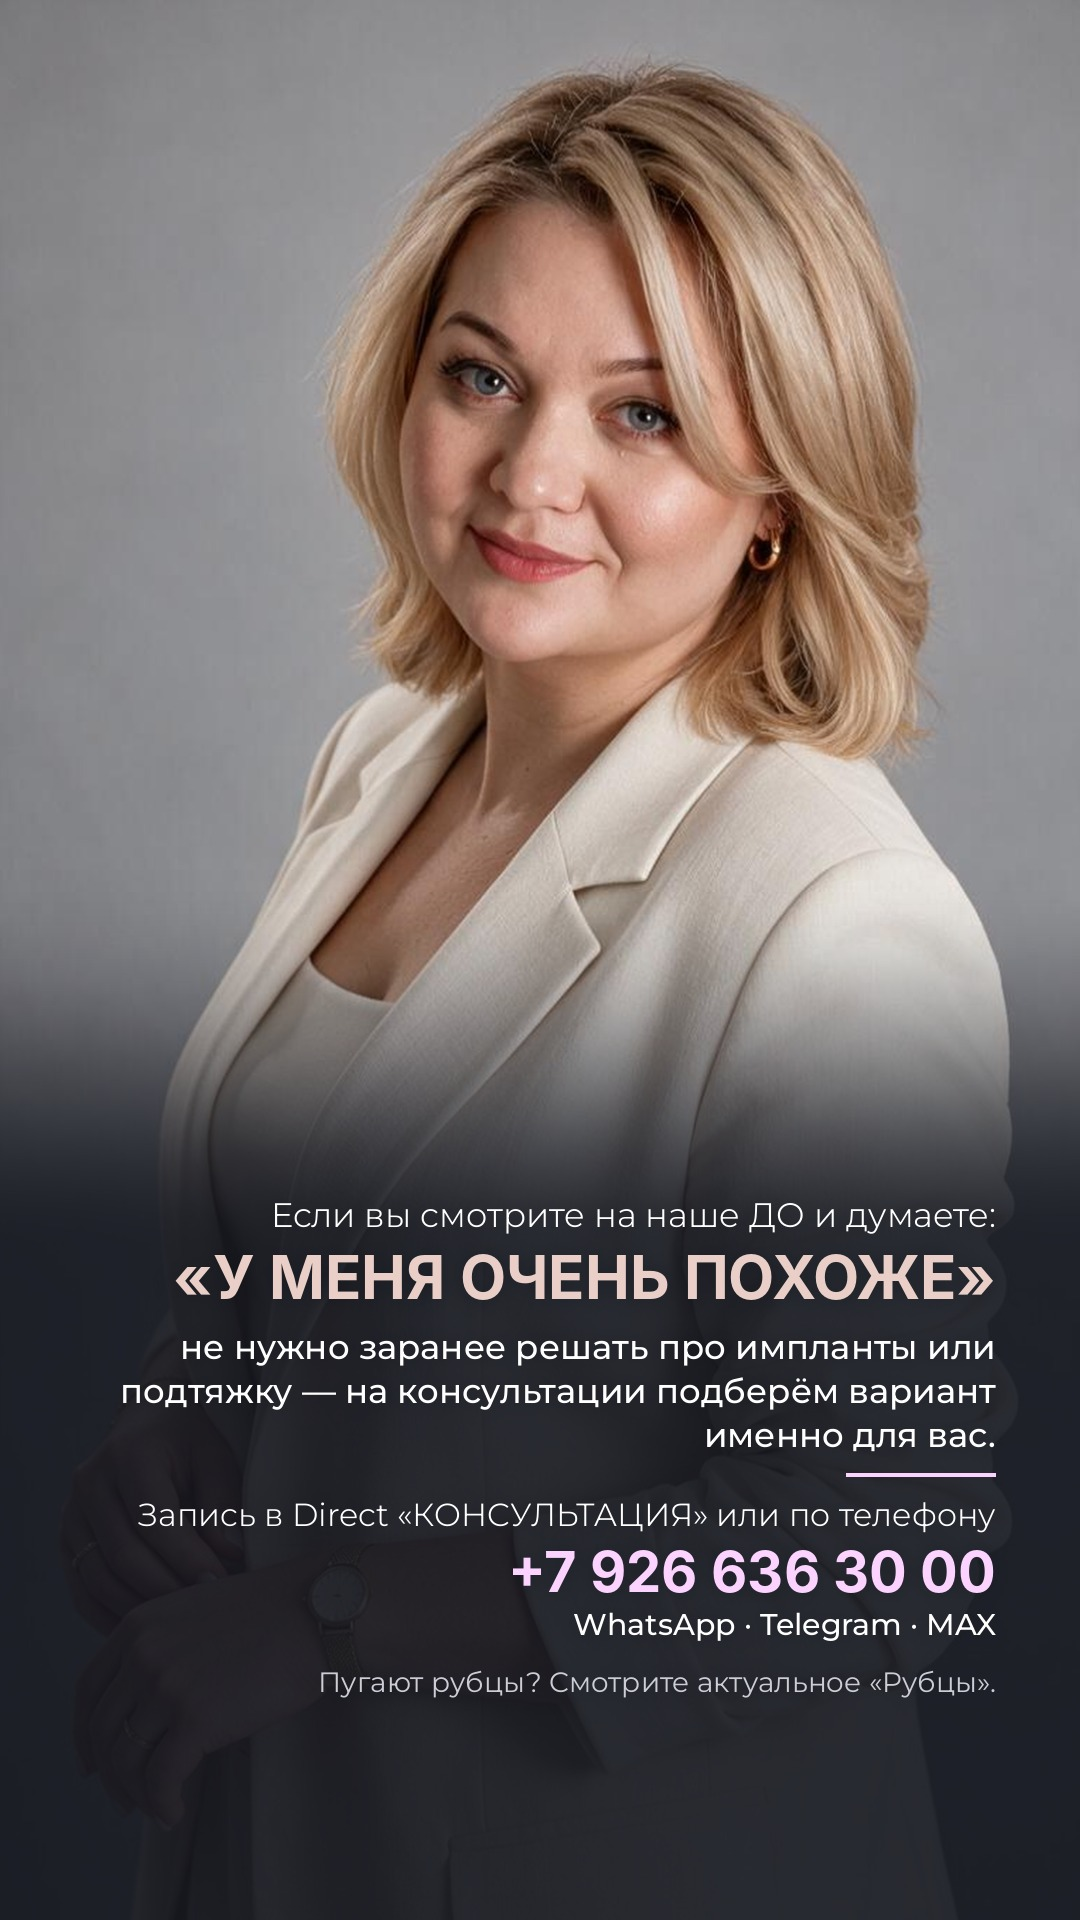
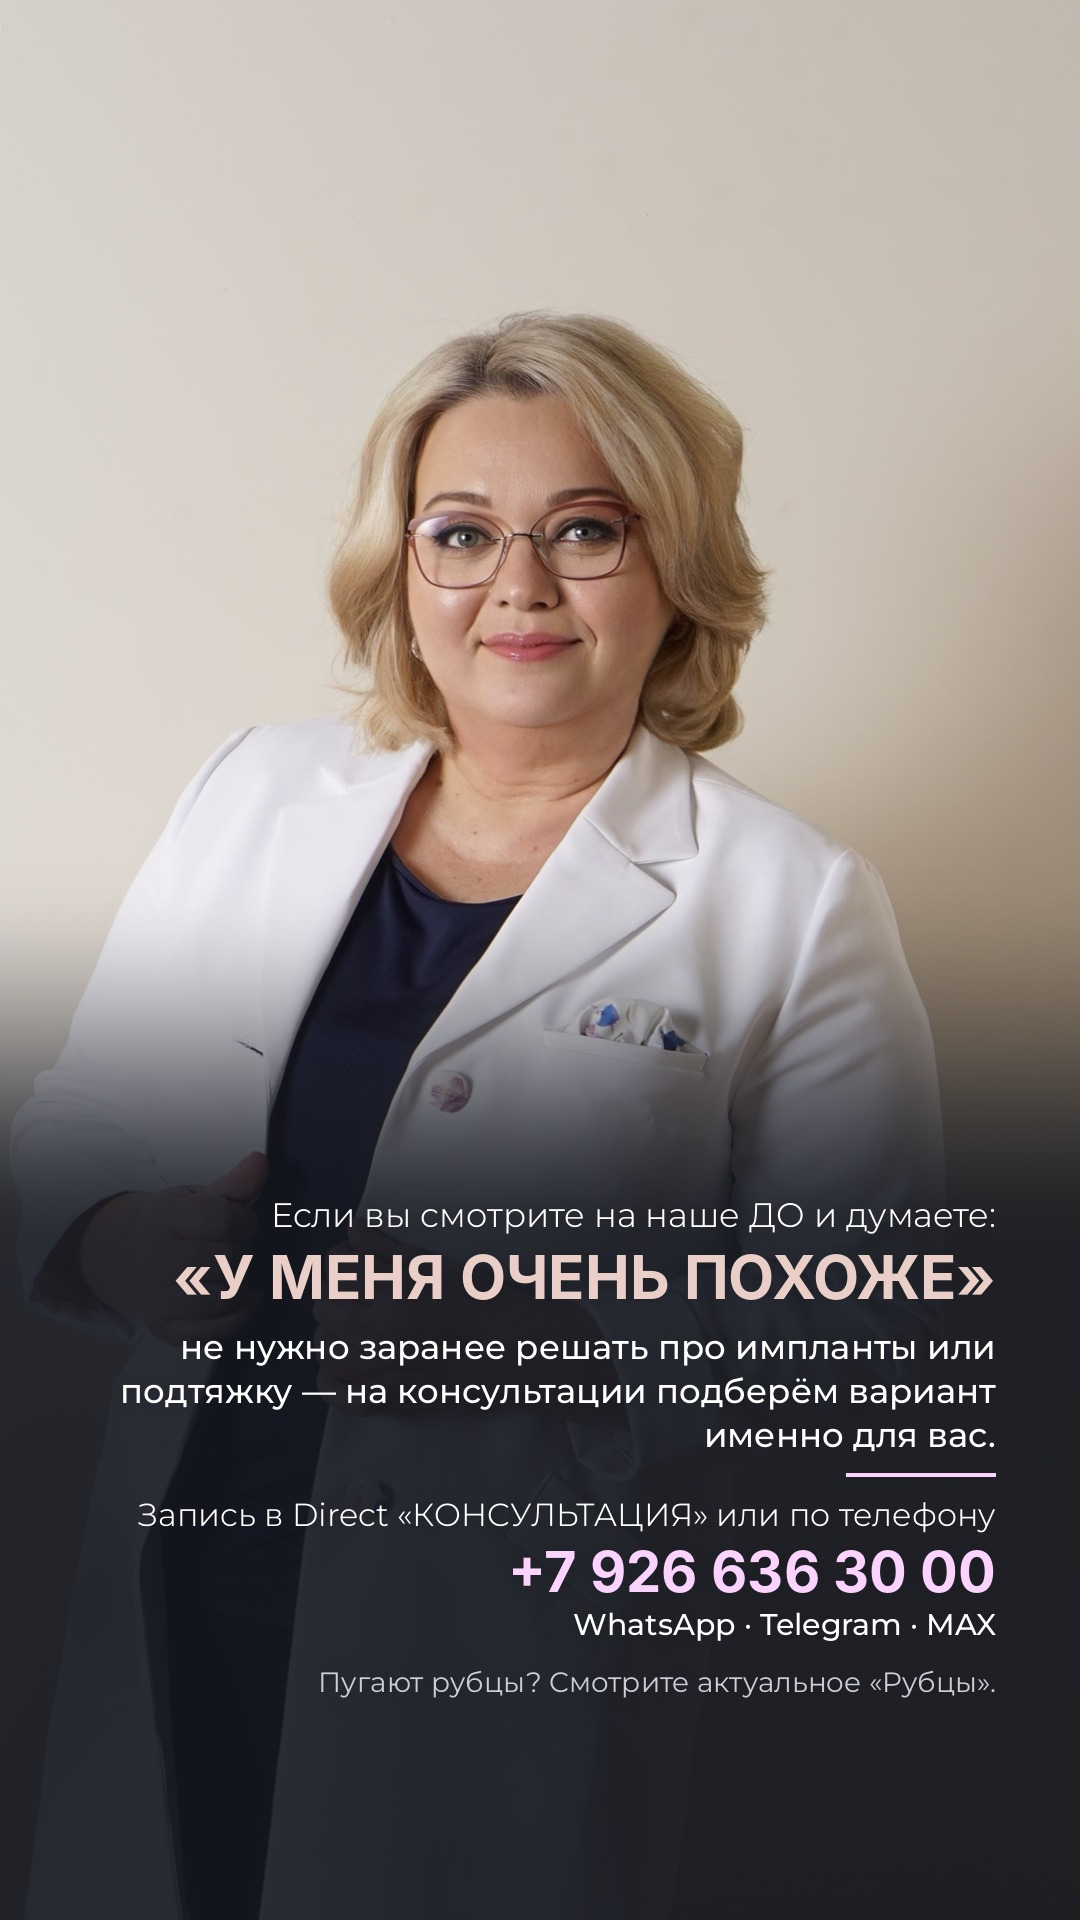
Lift stories: consultation story uses the white-coat surgeon photo
Claude-Session: https://claude.ai/code/session_01DoBoRz2HUe4yvMBz6dWv4L

diff --git a/tools/stories_lift_no_implants.py b/tools/stories_lift_no_implants.py
@@ -530,7 +530,7 @@ def s6():
 
 
 def s7():
-    ph = load_img("IMG_7246.JPG").resize((W, H), Image.LANCZOS)          # the surgeon - a photo not used before
+    ph = ImageOps.fit(load_img("surgeon_white_coat.jpg"), (W, H), Image.LANCZOS, centering=(0.5, 0.0))   # the surgeon in the white coat
     col = Column(0, align="right")
     col.body("Если вы смотрите на наше ДО и думаете:", 0, size=34, gap=6)
     col.head("«У МЕНЯ ОЧЕНЬ ПОХОЖЕ»", 0, size=60, col=POWDER, gap=14)

diff --git a/stories_lift_no_implants/README.md b/stories_lift_no_implants/README.md
@@ -11,7 +11,7 @@
 | 4 | 04_nuzhny_li_implanty | фото разметки 3/4 (IMG_7888), лицо за кадром | нет | **Опрос** под текстом: «Если объёма хватает, вы бы выбрали:» — Только подтяжку / Добавила бы объём |
 | 5 | 05_ne_prosto_risunok | оригинал разметки IMG_9112: 0:06–0:44 | голос + субтитры | — |
 | 6 | 06_raznaya_podtyazhka | крупный план разметки (IMG_9121), лицо за кадром | нет | — |
-| 7 | 07_konsultaciya | фото хирурга (IMG_7246, раньше не использовалось) | нет | по желанию — ссылка на актуальное «Рубцы» |
+| 7 | 07_konsultaciya | фото хирурга в белом халате (surgeon_white_coat.jpg) | нет | по желанию — ссылка на актуальное «Рубцы» |
 
 Сторис 3 и 5 собраны из оригиналов без старых подписей, лицо не размыто; субтитры новые, по речи.
 Видео «проход в операционную» (535c…) не вошло: в нём крупно вшит старый текст по центру кадра и низкое качество — для 7-й сторис взято неиспользованное фото хирурга.
